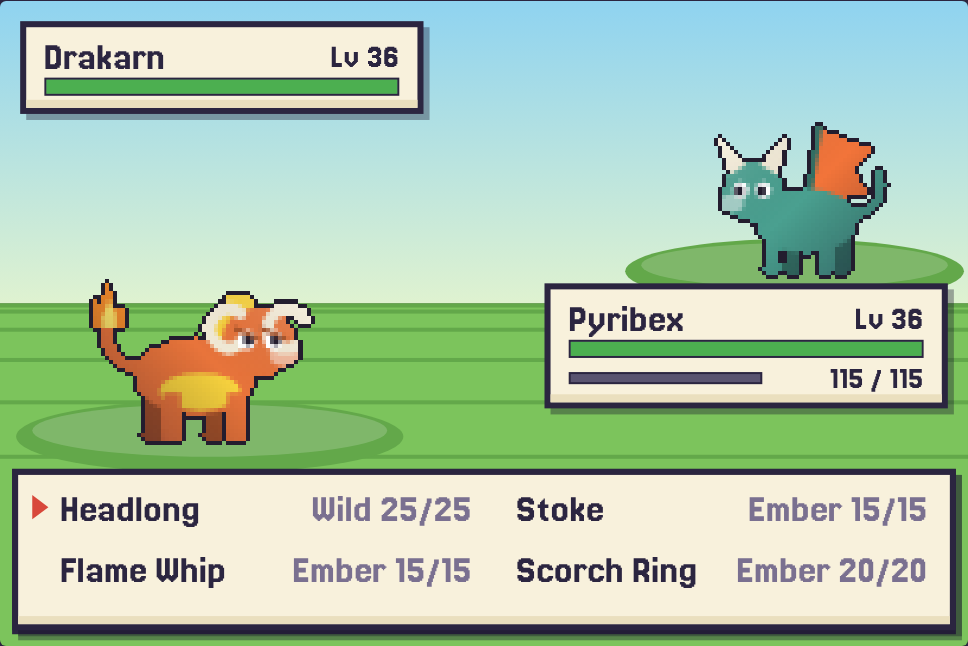
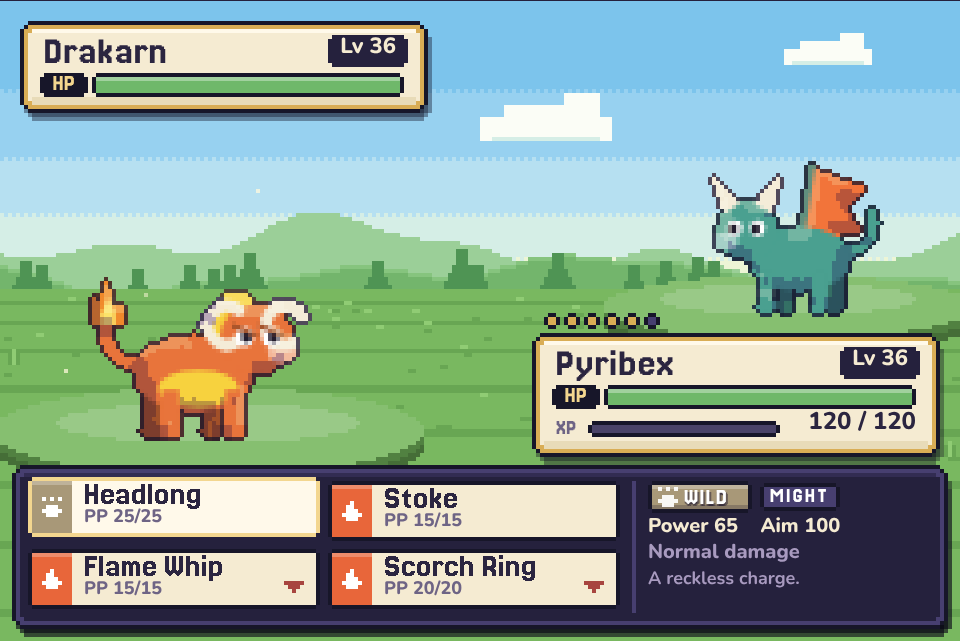
Refresh README and screenshots for the redesign; fit long names on team cards
Claude-Session: https://claude.ai/code/session_017UA8utadKDr4fnWJLDnq3m

diff --git a/js/screens.js b/js/screens.js
@@ -58,7 +58,8 @@ function monCard(g, m, x, y, w, h, o) {
   panel(g, x + 8, y + 8, 68, h - 16, 'well', { fill: shade(TYPE_COLOR[d.types[0]], out ? -.5 : -.18) });
   const bob = o.sel && !out ? Math.round(Math.sin(Game.t / 240)) * 2 : 0;
   g.globalAlpha = ga * (out ? .5 : 1); drawMon(g, m.id, x + 10, y + 8 + (h - 16 - 64) / 2 + bob, 64); g.globalAlpha = ga;
-  text(g, d.name, x + 84, y + (d.name.length > 10 ? 7 : 5), { font: 'd', size: d.name.length > 10 ? 14 : 17, color: PAL.ink, track: .3 });
+  const big = textW(g, d.name, 17, { font: 'd', track: .3 }) <= w - 142; // long names step down a size to clear the level pill
+  text(g, d.name, x + 84, y + (big ? 5 : 7), { font: 'd', size: big ? 17 : 14, color: PAL.ink, track: .3 });
   lvPill(g, m.lvl, x + w - 8, y + 6);
   d.types.forEach((t, i) => typeChip(g, t, x + 84 + i * 56, y + 27));
   bar(g, x + 84, y + 47, w - 94, 10, f, hpColor(f));

diff --git a/README.md b/README.md
@@ -7,7 +7,8 @@ A monster-taming RPG that runs in the browser. 151 original monsters, an origina
 | | |
 |---|---|
 | ![A town](docs/town.png) | ![A battle](docs/battle.png) |
-| ![The region map](docs/map.png) | ![The Journal](docs/journal.png) |
+| ![The team screen](docs/team.png) | ![A monster's summary](docs/summary.png) |
+| ![The Journal](docs/journal.png) | ![The region map](docs/map.png) |
 
 ## Play
 
@@ -45,6 +46,14 @@ The game saves to the browser's local storage. Use Save in the menu, or rest at 
 - **Six legendary monsters**, one waiting in each wild area. The last one only appears after you win the crown.
 - Journal, team, bag, region map, shops whose stock grows with your sigils, and evolution scenes.
 
+### Look and feel
+
+- **One design system.** A night, parchment and gold palette, a pixel display face for names and headings, and a rounded sans for anything you read in a sentence. Panels, bars, chips, icons and key hints are shared by every screen (`js/ui.js`).
+- **A living overworld.** Tile variants, soft path and shore edges, tall trees you can walk behind, shadows, swaying grass, moving water, pollen, fireflies, embers and snow by biome, and a day and night cycle with lit windows.
+- **Battles with weight.** Painted backdrops per biome, a damage trail on HP bars, hit flashes, floating damage numbers, effectiveness callouts, and a move menu that shows type, power, aim and how well each move will land.
+- **Dialogue with faces.** Name plates and portraits for whoever is speaking.
+- **Crisp at any size.** The 480 by 320 screen snaps to whole-number scales where it can, and the team screen switches to a single column on small displays.
+
 ### The region
 
 | Town | Warden | Type |
@@ -74,19 +83,21 @@ Tide beats Ember, Ember beats Flora, Flora beats Tide. The full chart is in `js/
 ## Code layout
 
 ```
-index.html           page shell and touch pad
+index.html           page shell, header and touch pad
 css/style.css        page styling
 js/core.js           constants, random helpers, type chart
 js/data/moves.js     all moves and the per-type move ladders
 js/data/monsters.js  the 151 monsters and their learnsets
 js/data/items.js     items and shop stock
 js/data/world.js     the region: cells, tamers, wardens, map generation, interiors
-js/sprites.js        procedural pixel art for monsters, people and tiles
+js/ui.js             design system: palette, type, panels, bars, chips, icons
+js/sprites.js        procedural pixel art for monsters, people, tiles and scenery
+js/scenery.js        battle backdrops, title landscape, weather, daylight
 js/state.js          save data, monster instances, stats
-js/engine.js         canvas, game loop, input, message box, menus
-js/screens.js        team, bag, journal, map, shop, paddock, evolution, title
-js/overworld.js      walking, NPC scripts, encounters, fishing
-js/battle.js         the battle system
+js/engine.js         canvas, game loop, input, dialogue box, menu primitives
+js/screens.js        pause menu, team, bag, journal, map, shop, paddock, evolution, title
+js/overworld.js      walking, world rendering, NPC scripts, encounters, fishing
+js/battle.js         the battle system and its presentation
 js/main.js           boot
 tools/check.js       data and map checks
 ```
